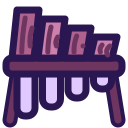
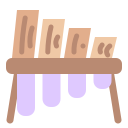
Space in Art shows the real brush with "to drop" or "to lift", Letters is written ABC beside a wider palette or three notes, and letter sounds is the A tile with sound waves. The instruments are redrawn without dark outlines so they stand out, and the loop hint, hold bar and Looping label share one 

diff --git a/scripts/instrument_icons.py b/scripts/instrument_icons.py
@@ -11,12 +11,10 @@ from pathlib import Path
 
 IMAGES = Path(__file__).resolve().parent.parent / "purple_tui" / "canvas" / "images"
 OUT, LETTERS, MODES, HINTS = IMAGES / "instruments", IMAGES / "letters", IMAGES / "modes", IMAGES / "hints"
-D, P1, P2, P3, P4, P5, P6 = "#2a1650", "#6a3fb0", "#8656d0", "#a379e8", "#c39cf7", "#dfc9ff", "#f6efff"
-W1, W2, W3 = "#6e3560", "#b0628f", "#cc80ab"  # plum wood
-U1, U2 = "#9a4e8e", "#dc93cf"  # orchid ukulele
-V1 = "#5d5ad6"  # blue-violet accordion
-O = f'stroke="{D}" stroke-width="7" stroke-linejoin="round" stroke-linecap="round"'
-O5 = O.replace('"7"', '"5"')
+D, P3, P5, P6 = "#2a1650", "#a379e8", "#dfc9ff", "#f6efff"
+W1, W2, W3 = "#b98a72", "#e2ae8c", "#f0c9a6"  # soft wood
+U1, U2 = "#d68fc4", "#f2bfe3"  # orchid ukulele
+V1 = "#8fa4f0"  # periwinkle accordion
 
 
 def svg(body, width=128, height=128):
@@ -28,20 +26,19 @@ def stick(x1, y1, x2, y2, color, w=7):
 
 
 def stroke(d, color, w):
-    """A path drawn as a thick line with the dark outline around it."""
-    line = 'fill="none" stroke-linecap="round" stroke-linejoin="round"'
-    return f'<path d="{d}" stroke="{D}" stroke-width="{w + 8}" {line}/><path d="{d}" stroke="{color}" stroke-width="{w}" {line}/>'
+    """A path drawn as a thick round-ended line."""
+    return f'<path d="{d}" stroke="{color}" stroke-width="{w}" fill="none" stroke-linecap="round" stroke-linejoin="round"/>'
 
 
 def marimba():
     out = [stick(18, 70, 10, 120, W1), stick(110, 70, 118, 120, W1)]
     for i in range(4):
         cx = 26 + i * 25.5
-        out.append(f'<rect x="{cx-9}" y="66" width="18" height="{50 - i*9}" rx="8" fill="{P5}" {O}/>')
-    out.append(f'<rect x="6" y="58" width="116" height="16" rx="6" fill="{W1}" {O}/>')
+        out.append(f'<rect x="{cx-9}" y="66" width="18" height="{50 - i*9}" rx="8" fill="{P5}"/>')
+    out.append(f'<rect x="6" y="58" width="116" height="16" rx="6" fill="{W1}"/>')
     for i in range(4):
         x, top = 12 + i * 26, 10 + i * 9
-        out.append(f'<path d="M{x+5} {top} h22 l-5 {58-top} h-22 Z" fill="{(W2, W3)[i % 2]}" {O}/>')
+        out.append(f'<path d="M{x+5} {top} h22 l-5 {58-top} h-22 Z" fill="{(W2, W3)[i % 2]}"/>')
         for dx, k in ((9, 0), (17, 1)):  # grain
             y0, y1 = top + 8 + k * 10, 52 - k * 6
             out.append(f'<path d="M{x+dx+5-(y0-top)*5/(58-top):.1f} {y0} q-3 {(y1-y0)/2:.1f} {-(y1-y0)*5/(58-top):.1f} {y1-y0}" fill="none" stroke="{W1}" stroke-width="5" stroke-linecap="round"/>')
@@ -51,9 +48,9 @@ def marimba():
 def ukulele():
     body = '<circle cx="64" cy="66" r="24"/><circle cx="64" cy="98" r="30"/>'
     return svg(f'<g transform="rotate(30 64 64) translate(0 -2)">'
-               f'<rect x="51" y="-4" width="26" height="26" rx="8" fill="{U1}" {O}/>'
-               f'<rect x="56" y="16" width="16" height="40" fill="{W1}" {O}/>'
-               f'<g stroke="{D}" stroke-width="14" fill="{D}">{body}</g><g fill="{U2}">{body}</g>'
+               f'<rect x="51" y="-4" width="26" height="26" rx="8" fill="{U1}"/>'
+               f'<rect x="56" y="16" width="16" height="40" fill="{W1}"/>'
+               f'<g fill="{U2}">{body}</g>'
                f'<circle cx="64" cy="74" r="11" fill="{D}"/>'
                f'<rect x="48" y="104" width="32" height="9" rx="4" fill="{D}"/></g>')
 
@@ -63,28 +60,30 @@ def accordion():
     xs = [34 + i * 9.5 for i in range(7)]  # bellows: one light block, folds as zigzag edges and lines
     top = " ".join(f"{x:.1f},{(22, 14)[i % 2]}" for i, x in enumerate(xs))
     bottom = " ".join(f"{x:.1f},{(106, 114)[i % 2]}" for i, x in reversed(list(enumerate(xs))))
-    out.append(f'<polygon points="{top} {bottom}" fill="{P5}" {O}/>')
+    out.append(f'<polygon points="{top} {bottom}" fill="{P5}"/>')
     out += [f'<line x1="{x:.1f}" x2="{x:.1f}" y1="{(22, 14)[i % 2]}" y2="{(106, 114)[i % 2]}" stroke="{D}" stroke-width="4"/>' for i, x in enumerate(xs[1:-1], 1)]
     for x in (4, 90):
-        out.append(f'<rect x="{x}" y="10" width="34" height="108" rx="8" fill="{V1}" {O}/>')
+        out.append(f'<rect x="{x}" y="10" width="34" height="108" rx="8" fill="{V1}"/>')
     for y in (34, 64, 94):
-        out.append(f'<circle cx="21" cy="{y}" r="8" fill="{P6}" {O5}/>')
-    out.append(f'<rect x="97" y="18" width="20" height="92" rx="4" fill="{P6}" {O5}/>')
+        out.append(f'<circle cx="21" cy="{y}" r="8" fill="{P6}"/>')
+    out.append(f'<rect x="97" y="18" width="20" height="92" rx="4" fill="{P6}"/>')
     for y in (36, 62, 88):
         out.append(f'<rect x="97" y="{y-6}" width="12" height="12" rx="2" fill="{D}"/>')
     return svg("".join(out))
 
 
 def glockenspiel():
-    out = [f'<path d="M6 22 L122 40 L122 104 L6 122 Z" fill="{P1}" {O}/>']
+    out = [f'<path d="M6 22 L122 40 L122 104 L6 122 Z" fill="{P3}"/>']
     for i in range(5):
         x, half = 14 + i * 21, 42 - i * 6.5
-        out.append(f'<rect x="{x}" y="{72-half:.1f}" width="16" height="{2*half:.1f}" rx="5" fill="{P6}" {O5}/>')
+        out.append(f'<rect x="{x}" y="{72-half:.1f}" width="16" height="{2*half:.1f}" rx="5" fill="{P6}"/>')
         out.append(f'<rect x="{x+4}" y="{72-half+5:.1f}" width="4" height="{2*half-10:.1f}" rx="2" fill="#ffffff"/>')
-    out.append(f'<path d="M106 0 L112 14 L126 20 L112 26 L106 40 L100 26 L86 20 L100 14 Z" fill="{P6}" stroke="{D}" stroke-width="5" stroke-linejoin="round"/>')
+    out.append(f'<path d="M106 0 L112 14 L126 20 L112 26 L106 40 L100 26 L86 20 L100 14 Z" fill="{P6}"/>')
     return svg("".join(out))
 
 
+ROUND = 'fill="none" stroke-linecap="round" stroke-linejoin="round"'
+WAVE = f'stroke-width="8" {ROUND}'
 INK, SKIN, HAIR, CHEEK = "#3b2470", "#f6efff", "#c08a64", "#f2b8d8"  # the calm set: flat, no outlines
 TILES = ("#dfc9ff", "#f6c9e4", "#c9dcff")
 A, B, C = "M16 52 L32 12 L48 52 M21 40 H43", "M20 14 V50 H35 A9 9 0 0 0 35 32 H20 M20 14 H33 A9 9 0 0 1 33 32", \
@@ -105,25 +104,27 @@ def names():
 
 
 def abc():
-    """Letters: three alphabet tiles in a row."""
-    return svg("".join(block(4 + i * 84, 4, 72, TILES[i], d) for i, d in enumerate((A, B, C))), 248, 80)
+    """Letters in the Tab switches: A B C as light purple writing, no tiles (that's Names)."""
+    return svg("".join(f'<path d="{d}" transform="translate({x} 3)" stroke="{TILES[0]}" stroke-width="7" {ROUND}/>'
+                       for d, x in ((A, -8), (B, 32), (C, 72))), 128, 70)
 
 
 def paint():
-    """A painter's palette with dabs of paint and a thumb hole."""
+    """A painter's palette, wide, with dabs of paint and a thumb hole."""
     dabs = (("#ff8f8f", 34, 48), ("#ffd27a", 62, 32), ("#86c5ff", 92, 40), ("#8fdcaa", 100, 70))
-    return svg(f'<path fill-rule="evenodd" fill="{TILES[0]}" d="M64 12 C106 12 122 40 118 66 C114 90 96 88 84 82'
-               ' C72 76 62 86 70 100 C78 114 58 118 44 114 C18 106 6 86 8 62 C10 34 30 12 64 12 Z'
-               ' M28 84 a10 10 0 1 0 20 0 a10 10 0 1 0 -20 0 Z"/>'
-               + "".join(f'<circle cx="{x}" cy="{y}" r="11" fill="{c}"/>' for c, x, y in dabs))
+    return svg(f'<path fill-rule="evenodd" fill="{TILES[0]}" transform="scale(1.3 1) translate(-4 -8)"'
+               ' d="M64 12 C106 12 122 40 118 66 C114 90 96 88 84 82 C72 76 62 86 70 100 C78 114 58 118 44 114'
+               ' C18 106 6 86 8 62 C10 34 30 12 64 12 Z M28 84 a10 10 0 1 0 20 0 a10 10 0 1 0 -20 0 Z"/>'
+               + "".join(f'<circle cx="{(x - 4) * 1.3:.0f}" cy="{y - 8}" r="11" fill="{c}"/>' for c, x, y in dabs), 156, 112)
 
 
 def notes():
-    """Two eighth notes joined by a beam."""
-    return svg(f'<g fill="{TILES[0]}"><path d="M46 28 L110 14 V32 L46 46 Z"/>'
-               '<rect x="46" y="28" width="9" height="70" rx="4"/><rect x="101" y="14" width="9" height="72" rx="4"/>'
-               '<ellipse cx="38" cy="98" rx="18" ry="13" transform="rotate(-20 38 98)"/>'
-               '<ellipse cx="93" cy="86" rx="18" ry="13" transform="rotate(-20 93 86)"/></g>')
+    """Three eighth notes joined by a beam, climbing: wide enough to sit beside A B C."""
+    stems = ((40, 34, 100), (92, 24, 90), (144, 14, 80))
+    return svg(f'<g fill="{TILES[0]}"><path d="M40 34 L153 14 V30 L40 50 Z"/>'
+               + "".join(f'<rect x="{x}" y="{top}" width="9" height="{foot - top}" rx="4"/>'
+                         f'<ellipse cx="{x - 8}" cy="{foot}" rx="17" ry="12.5" transform="rotate(-20 {x - 8} {foot})"/>'
+                         for x, top, foot in stems) + '</g>', 172)
 
 
 def clip(x, y, turn):
@@ -159,15 +160,11 @@ def back():
 
 
 def sounds():
-    """The same face saying something out loud: an open mouth and soft sound waves."""
-    wave = 'fill="none" stroke-width="7" stroke-linecap="round"'
-    mouth = f'<ellipse cx="64" cy="92" rx="8" ry="6" fill="{INK}"/>'
-    return svg(f'<g transform="translate(-4 10) scale(0.84)">{face(mouth)}</g>'
-               f'<path d="M106 54 A8 14 0 0 1 106 82" stroke="{TILES[0]}" {wave}/>'
-               f'<path d="M117 42 A13 26 0 0 1 117 94" stroke="{TILES[1]}" {wave}/>')
+    """Letter sounds: the A tile from Names, saying its sound."""
+    return svg(block(6, 28, 72, TILES[0], A) + f'<path d="M92 50 A8 14 0 0 1 92 78" stroke="{TILES[1]}" {WAVE}/>'
+               f'<path d="M106 38 A13 26 0 0 1 106 90" stroke="{TILES[2]}" {WAVE}/>')
 
 
-ROUND = 'fill="none" stroke-linecap="round" stroke-linejoin="round"'
 RAINBOW = ("#ff8f8f", "#ffd27a", "#8fdcaa", "#86c5ff", "#c39cf7")
 
 
@@ -211,33 +208,9 @@ def up():
                f'<path d="M100 104 V24 M84 40 L100 24 L116 40" stroke="{RAINBOW[1]}" stroke-width="10" {ROUND}/>')
 
 
-def loop():
-    """Hold Enter in Music: round and round, an arrow chasing its tail."""
-    return svg(f'<path d="M100 74 A38 38 0 1 1 88 36" stroke="{TILES[0]}" stroke-width="12" {ROUND}/>'
-               f'<path d="M70 26 L94 30 L88 54 Z" fill="{TILES[0]}" stroke="{TILES[0]}" stroke-width="6" stroke-linejoin="round"/>')
-
-
-def brush(lift):
-    """A brush over a dab of paint, its tip lift units above it."""
-    tip = (f'<g transform="translate(0 {-lift})"><path d="M100 30 L58 74" stroke="{W3}" stroke-width="12" {ROUND}/>'
-           f'<path d="M60 64 L72 76 L50 100 C42 106 34 104 36 94 Z" fill="{TILES[0]}" stroke="{TILES[0]}" stroke-width="6"'
-           f' stroke-linejoin="round"/><path d="M42 100 C38 104 46 108 50 102" fill="{RAINBOW[0]}"/></g>')
-    return svg(f'<ellipse cx="46" cy="112" rx="38" ry="11" fill="{RAINBOW[0]}" opacity="{1 if not lift else 0.45}"/>' + tip)
-
-
-def brush_down():
-    """Space in Art: the brush tip down on a dab of paint."""
-    return brush(0)
-
-
-def brush_up():
-    """Space with the brush down: it lifts off the paint."""
-    return brush(22)
-
-
 def new_line():
     """Enter in Art's writing: down and back to the start of the line."""
-    return svg(f'<path d="M104 18 V70 Q104 82 92 82 H32 M52 60 L30 82 L52 104" stroke="{TILES[0]}" stroke-width="12" {ROUND}/>')
+    return svg(f'<path d="M92 32 V68 Q92 76 84 76 H42 M56 62 L41 76 L56 90" stroke="{TILES[0]}" stroke-width="9" {ROUND}/>')
 
 
 def play():
@@ -265,5 +238,5 @@ if __name__ == "__main__":
         render(draw, LETTERS)
     for draw in (paint, notes, abc, front, back):
         render(draw, MODES)
-    for draw in (rainbow, lighter, darker, keep, go_back, up, loop, brush_down, brush_up, new_line, play, stop):
+    for draw in (rainbow, lighter, darker, keep, go_back, up, new_line, play, stop):
         render(draw, HINTS)

diff --git a/purple_tui/canvas/rooms/art_room.py b/purple_tui/canvas/rooms/art_room.py
@@ -4,6 +4,7 @@ Space puts the brush down so arrows draw (or only while held),
 holding Backspace takes squares, then whole lines, and Tab switches to writing letters.
 The Logo-style code line opens from the Esc menu."""
 
+import functools
 import math
 import time
 
@@ -19,7 +20,7 @@ from .. import color_recipe, paper
 from ...palette import DEFAULT_BRUSH_COLOR, GRAYSCALE, KEY_COLORS, UNMAPPED, get_key_color
 from ..color_wheel import chip as wheel_chip, open_on as open_color_wheel
 from ..panels import CodePanel, Echo
-from ..ui import (ABC_PICTURE, AUTO, CLEAN_HINT, MOVE_HINT, PICK_HINT, auto_ink, draw_key_hint, draw_label, draw_mode_switch, draw_status_row, hint_row_h,
+from ..ui import (ABC_PICTURE, AUTO, HINT_PICTURES, CLEAN_HINT, MOVE_HINT, PICK_HINT, auto_ink, draw_key_hint, draw_label, draw_mode_switch, draw_status_row, hint_row_h,
                   status_row_h, status_row_px, swatch_dot)
 from .base import Room
 
@@ -44,8 +45,8 @@ STEPS = {"up": (0, -1), "down": (0, 1), "left": (-1, 0), "right": (1, 0)}
 BACK = {"right": "left", "left": "right", "up": "down", "down": "up"}
 HINTS = {
     "littles": "Type to paint!",
-    "pen": "Arrows paint!  {Space} {hints/brush_up.png}",
-    "paint": "Type to paint!  {Space} {hints/brush_down.png}",
+    "pen": "Arrows paint!  {Space} {brush:up} to lift",
+    "paint": "Type to paint!  {Space} {brush:down} to drop",
     "write": "Type to write!  {Enter} {hints/new_line.png}",
     "pick": PICK_HINT,
     "clean": "{Backspace} + arrows cleans that way.",
@@ -75,7 +76,7 @@ def onto_grid(x: int, y: int, w: int, h: int, wrap: bool):
     return (x % w, y % h) if wrap else None
 
 
-def _brush_shape(at, u: float, press: float) -> tuple:
+def _brush_shape(at, u: float, press: float, handle: float = 1.6) -> tuple:
     """Bristles, sheen, ferrule and handle as polygons, tip first along the lean.
     Pressing splays the bristles and bends their tip off sideways, the way a
     brush flattens against paper."""
@@ -97,7 +98,7 @@ def _brush_shape(at, u: float, press: float) -> tuple:
     ts = [i / n for i in range(n + 1)]
     bristles = [side(t, 1) for t in ts] + [side(t, -1) for t in reversed(ts)]
     sheen = [side(t, -0.45) for t in ts[4:15]]
-    f0, f1, h1 = length, length + 0.32 * u, length + 1.6 * u
+    f0, f1, h1 = length, length + 0.32 * u, length + handle * u
     ferrule = [at(f0, neck * 1.15), at(f1, neck * 0.95), at(f1, -neck * 0.95), at(f0, -neck * 1.15)]
     stations = ((f1, 0.12), (f1 + 0.35 * u, 0.16), (h1, 0.07))
     handle = [at(a, w * u) for a, w in stations] + [at(a, -w * u) for a, w in reversed(stations)]
@@ -117,7 +118,7 @@ def _dash_outline(surf, mid: int, u: float, edge: int, color: str, alpha: int):
             pygame.draw.line(surf, (*rgb(color), alpha), *line, w)
 
 
-def _brush_tip(c: int, color: str, tip, arrow_turn, lift: float = 1.0, ground="cell") -> pygame.Surface:
+def _brush_tip(c: int, color: str, tip, arrow_turn, lift: float = 1.0, ground="cell", handle: float = 1.6) -> pygame.Surface:
     """A 7c square centered on the cursor cell, drawn 4x and smoothed down.
     tip "brush" is a paintbrush in the brush color: lift 1 floats it above a
     ring on the cell (pen up), lift 0 presses its splayed bristles into the
@@ -140,10 +141,10 @@ def _brush_tip(c: int, color: str, tip, arrow_turn, lift: float = 1.0, ground="c
         tx, ty = mid + u * 0.3 * press, mid + u * (0.3 - BRUSH_FLOAT * lift)
         (dx, dy), (px, py) = BRUSH_LEAN, (-BRUSH_LEAN[1], BRUSH_LEAN[0])
         at = lambda a, b: (tx + dx * a + px * b, ty + dy * a + py * b)
-        bristles, sheen, ferrule, handle, end = _brush_shape(at, u, press)
+        bristles, sheen, ferrule, stick, end = _brush_shape(at, u, press, handle)
         r_end = round(u * 0.08)
         pygame.draw.circle(surf, rgb(TIP_EDGE), end, r_end + edge)
-        parts = ((handle, P.ACCENT), (ferrule, P.TEXT), (bristles, color))
+        parts = ((stick, P.ACCENT), (ferrule, P.TEXT), (bristles, color))
         for poly, _ in parts:
             pygame.draw.polygon(surf, rgb(TIP_EDGE), poly, 2 * edge)
         for poly, fill in parts:
@@ -170,6 +171,14 @@ def _brush_icon(h: int, color: str, lift: float) -> pygame.Surface:
     top = ink.bottom - round(ink.h * BRUSH_HEAD)
     head = surf.subsurface(pygame.Rect(full.x, top, full.w, full.bottom - top))
     return head.subsurface(head.get_bounding_rect()).copy()
+
+
+@functools.lru_cache(maxsize=8)
+def _brush_hint(h: int, color: str, lift: float) -> pygame.Surface:
+    """The cursor brush with a longer handle, for Space's hint: pressed down, or floating over its ring."""
+    s = _brush_tip(h, color, "brush", None, lift, ground="ring", handle=2.6)
+    s = s.subsurface(s.get_bounding_rect())
+    return pygame.transform.smoothscale(s, (max(1, round(s.get_width() * h / s.get_height())), h))
 
 
 class _RoomBrushRunner(ArtCodeRunner):
@@ -219,6 +228,8 @@ class ArtRoom(Room):
         self._cursor_x = self._cursor_y = 0
         self._paint_mode = True
         self._last_key_color = DEFAULT_BRUSH_COLOR
+        HINT_PICTURES.update({f"brush:{way}": lambda h, lift=lift: _brush_hint(h, self._last_key_color, lift)
+                              for way, lift in (("down", 0.0), ("up", 1.0))})
         self._last_key_char = ""
         self._mix = color_recipe.NO_MIX   # (keycaps, color) of the last chord
         self._mixed = None                # (keycaps, color) of the last dab that mixed

diff --git a/purple_tui/canvas/ui.py b/purple_tui/canvas/ui.py
@@ -779,9 +779,15 @@ def _chord_pad(t: str, px: int) -> int:
     return round(px * 0.2) if t == "+" else 0
 
 
+HINT_PICTURES: dict = {}  # {name} -> fn(height) -> surface, for a picture a room draws itself
+
+
 def hint_picture(g: Gfx, t: str, px: int) -> pygame.Surface | None:
-    """A {hints/name.png} in a hint line is a picture standing in for words, the height of a keycap."""
-    return g.image(t, round(keycap_size(g, "X", px)[1] * 1.2)) if t.endswith(".png") else None
+    """A {hints/name.png} or a HINT_PICTURES name in a hint line is a picture standing in for words."""
+    h = round(keycap_size(g, "X", px)[1] * 1.2)
+    if t in HINT_PICTURES:
+        return HINT_PICTURES[t](h)
+    return g.image(t, h) if t.endswith(".png") else None
 
 
 def key_hint_width(g: Gfx, text: str, px: int) -> int:

diff --git a/purple_tui/constants.py b/purple_tui/constants.py
@@ -105,7 +105,7 @@ ICON_PALETTE = ""          # nf-md-palette
 ICON_MUSIC = "\uf001"       # nf-fa-music
 ICON_MUSIC_NOTE = "\U000f0387"  # nf-md-music_note_outline (single note for flash)
 ICON_DRUM = "\uee32"        # nf-fa-drum
-ICON_LOOP = ""        # nf-fa-repeat (looping indicator)
+ICON_LOOP = "\U000f0456"  # nf-md-repeat (looping indicator)
 ICON_CHAT = ""             # nf-md-chat_question
 ICON_DOCUMENT = ""         # nf-md-file_document
 ICON_MOON = ""             # nf-md-weather_night

diff --git a/purple_tui/canvas/rooms/music_room.py b/purple_tui/canvas/rooms/music_room.py
@@ -708,7 +708,7 @@ class MusicRoom(Room):
     def _hint_text(self) -> str:
         if self.app._littles_mode:
             return "{Enter} sound"
-        return "{hold Enter} {hints/loop.png}" if self.app._music_looping_enabled else ""
+        return f"{{hold Enter}} {ICON_LOOP}" if self.app._music_looping_enabled else ""
 
     def _draw_header(self, g, rect):
         """The same header as Art and Blocks: the Enter chip beside the Notes / Letters switch."""
